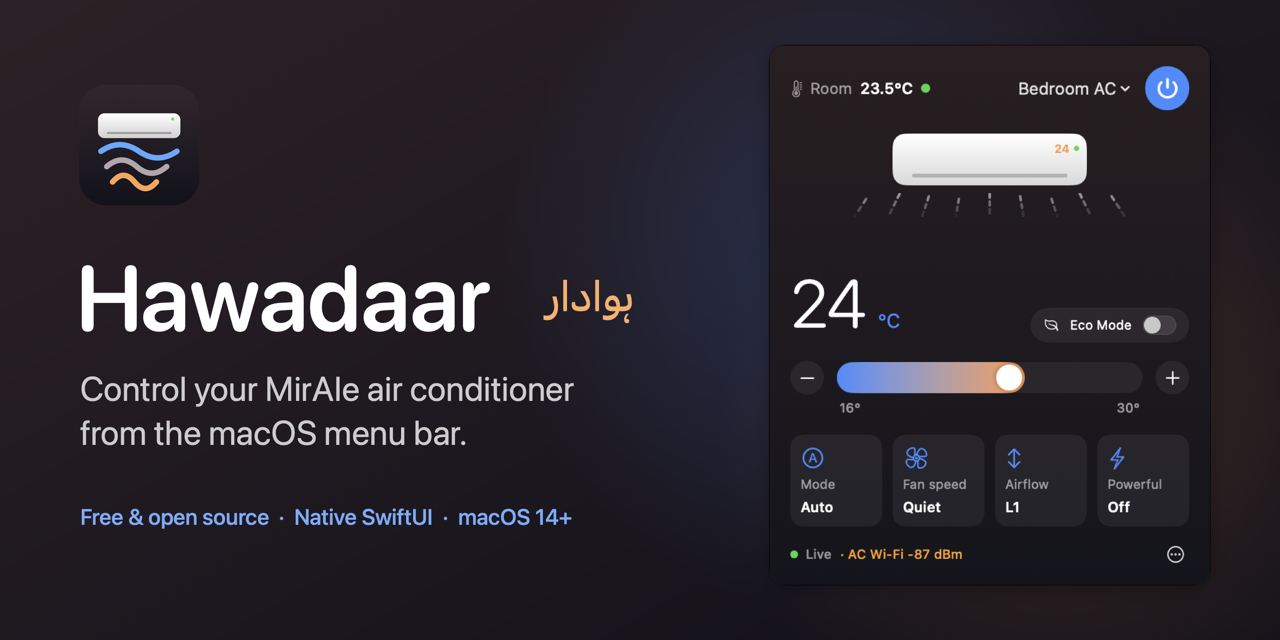
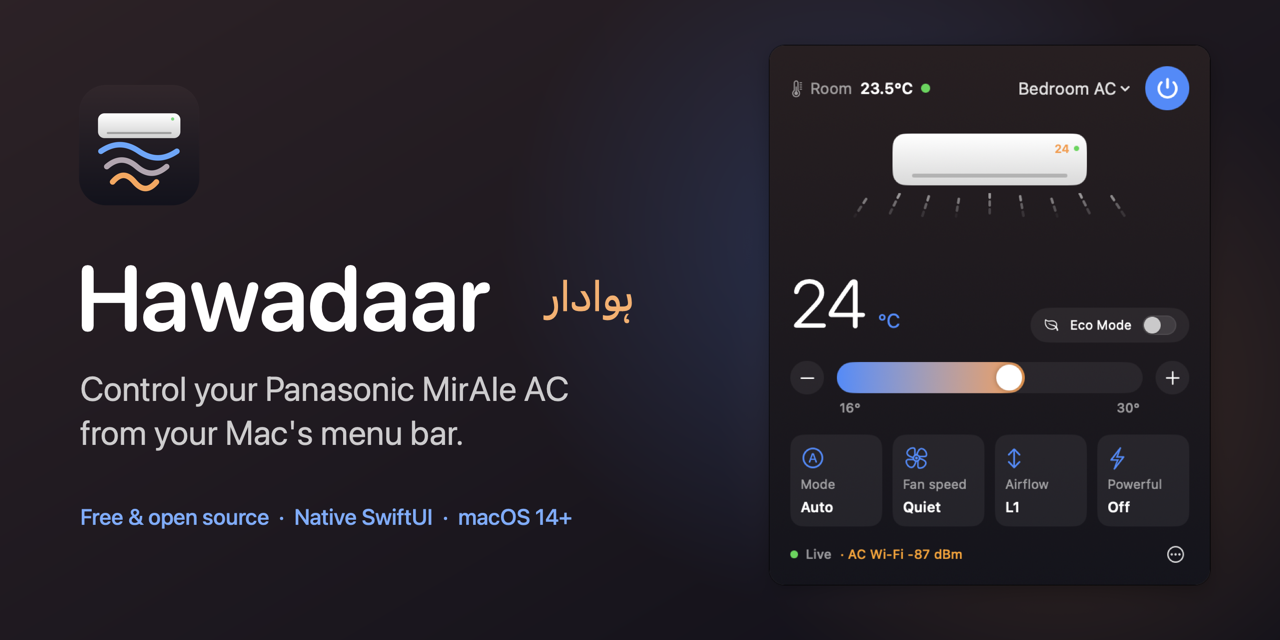
Social preview: mention Panasonic

Changed region(s): [[0.125, 0.6562, 0.375, 0.7188], [0.1875, 0.5938, 0.4688, 0.625]]

diff --git a/scripts/make-social-preview.swift b/scripts/make-social-preview.swift
@@ -39,8 +39,8 @@ text("ہوادار", font: .systemFont(ofSize: 44, weight: .regular),
      color: NSColor(red: 1.0, green: 0.68, blue: 0.40, alpha: 1), at: NSPoint(x: 545, y: 318))
 let tagline = NSFont.systemFont(ofSize: 34, weight: .regular)
 let dim = NSColor(white: 1, alpha: 0.78)
-text("Control your MirAIe air conditioner", font: tagline, color: dim, at: NSPoint(x: 80, y: 232))
-text("from the macOS menu bar.", font: tagline, color: dim, at: NSPoint(x: 80, y: 188))
+text("Control your Panasonic MirAIe AC", font: tagline, color: dim, at: NSPoint(x: 80, y: 232))
+text("from your Mac's menu bar.", font: tagline, color: dim, at: NSPoint(x: 80, y: 188))
 text("Free & open source  ·  Native SwiftUI  ·  macOS 14+", font: .systemFont(ofSize: 22, weight: .medium),
      color: NSColor(red: 0.45, green: 0.68, blue: 1.0, alpha: 1), at: NSPoint(x: 80, y: 110))
 
